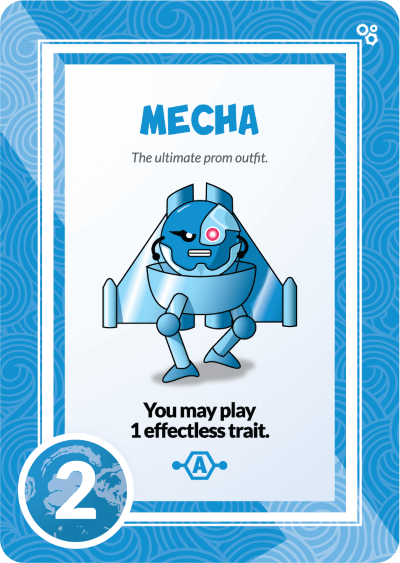
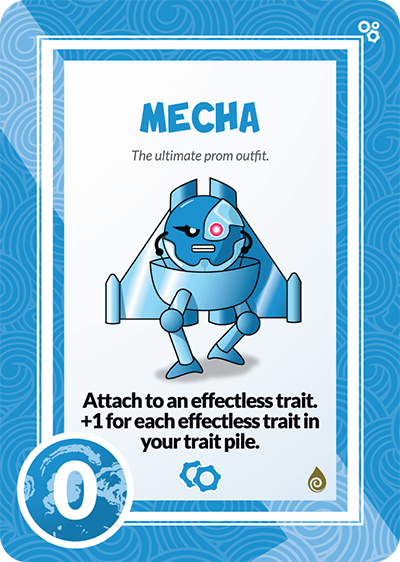
More cleaup

diff --git a/web/src/components/ScoringLogsModal.tsx b/web/src/components/ScoringLogsModal.tsx
@@ -1,6 +1,6 @@
 import { useMemo, useRef, useState, type Dispatch } from 'react';
 import { Scorer } from '@scorer/scorer';
-import type { PlayerInput } from '@scorer/types';
+import type { Card, PlayerInput } from '@scorer/types';
 import { PLAYER_CARD_NAME } from '@scorer/types';
 import type { Action, AppState } from '../appReducer';
 import type { CardEntry, GameStateExport, PlayerState } from '../types';
@@ -32,11 +32,13 @@ interface FormattedPlayerLog {
 }
 
 interface ScoringLogsModalProps {
+  cards: Map<string, Card>;
   state: AppState;
   dispatch: Dispatch<Action>;
 }
 
 function buildScorer(
+  cards: Map<string, Card>,
   players: PlayerState[],
   selectedCatastrophes: CardEntry[],
   catastropheMetadata: Record<
@@ -50,7 +52,7 @@ function buildScorer(
     const playerCards = players.map((p) =>
       p.cards.map((c) => ({ ...c }) as PlayerInput)
     );
-    const scorer = new Scorer(...playerCards);
+    const scorer = new Scorer(cards, ...playerCards);
     if (selectedCatastrophes.length > 0) {
       const catastropheInputs: PlayerInput[] = selectedCatastrophes.map(
         (cat) => ({
@@ -81,6 +83,7 @@ function isValidGameStateExport(
 
 export default function ScoringLogsModal({
   state,
+  cards,
   dispatch
 }: ScoringLogsModalProps) {
   const {
@@ -88,7 +91,7 @@ export default function ScoringLogsModal({
     selectedCatastrophes,
     catastropheMetadata,
     selectedReleases,
-    selectedCollections
+    selectedCollections,
   } = state;
 
   const close = () => dispatch({ type: 'CLOSE_SCORING_LOGS' });
@@ -160,7 +163,7 @@ export default function ScoringLogsModal({
   };
 
   const scorer = useMemo(
-    () => buildScorer(players, selectedCatastrophes, catastropheMetadata),
+    () => buildScorer(cards, players, selectedCatastrophes, catastropheMetadata),
     [players, selectedCatastrophes, catastropheMetadata]
   );
 

diff --git a/web/src/App.tsx b/web/src/App.tsx
@@ -247,7 +247,7 @@ export default function App() {
       </footer>
 
       {state.scoringLogsModalOpen && (
-        <ScoringLogsModal state={state} dispatch={dispatch} />
+        <ScoringLogsModal state={state} dispatch={dispatch} cards={cardsMap} />
       )}
 
       <MetadataModal state={state} gameScore={gameScore} dispatch={dispatch} cards={cardsMap}/>

diff --git a/lib/src/cards/cardCollectionRelease.ts b/lib/src/cards/cardCollectionRelease.ts
@@ -920,6 +920,10 @@ export const CARD_COLLECTION_RELEASE: Record<
     collection: 'Techlings',
     release: ['Deluxe Bundle', 'Upgrade Pack'],
   },
+  'MECHA (kickstarter)': {
+    collection: 'Techlings',
+    release: ['Gold Box (Kickstarter)'],
+  },
   'MEGA TSUNAMI': {
     collection: 'Classic',
     release: ['Classic Game', 'Deluxe Bundle'],

diff --git a/lib/src/cards/ks-cards.ts b/lib/src/cards/ks-cards.ts
@@ -83,6 +83,7 @@ addBasicCard({ score: 1 }, {
     }
   }
 });
+addBasicCard({ score: 2 }, {name: 'MECHA (kickstarter)', type: ['blue']})
 addBasicCard({ score: 3 }, {
   name: 'PACK BEHAVIOR (kickstarter)',
   type: ['green'],
